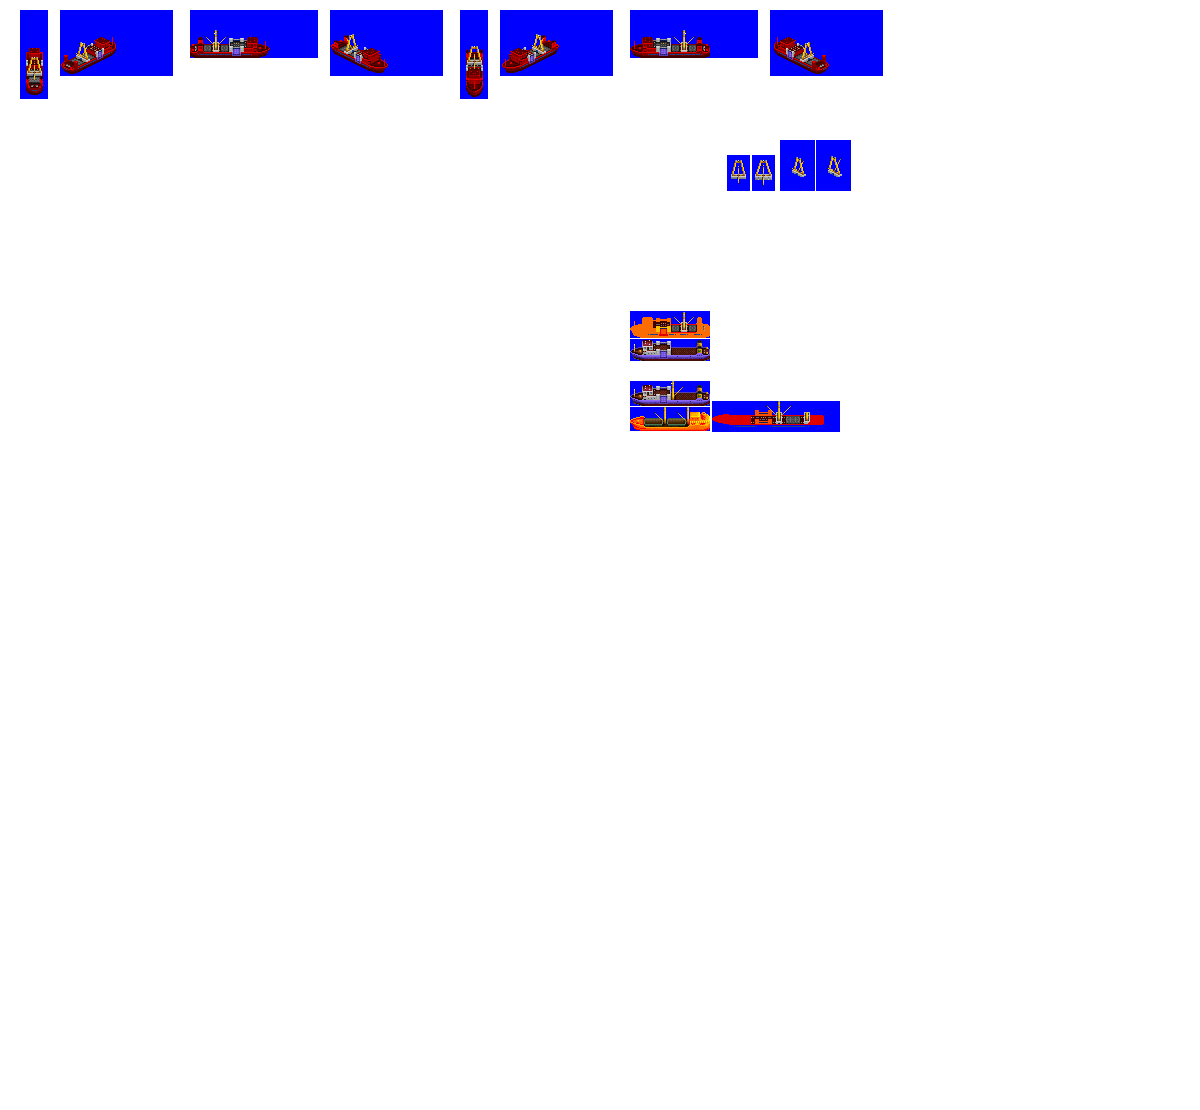
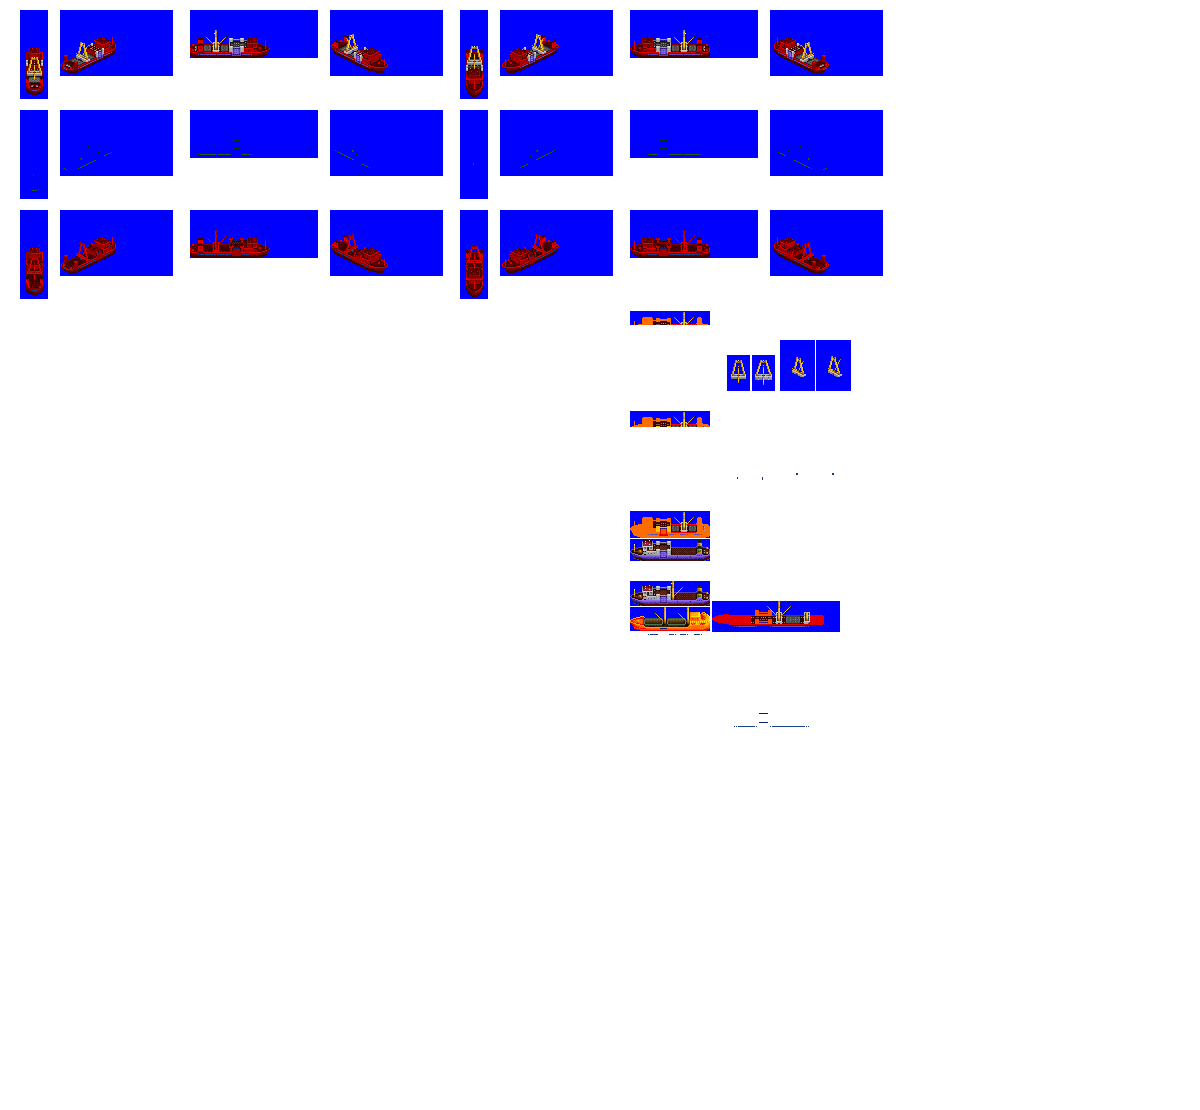
Change: experimental decor layer for stripes on reefers (also edibles tankers, maybe ferries), unfinished

Changed region(s): [[0.0, 0.0919, 0.74, 0.2757], [0.5242, 0.2757, 0.7092, 0.3982], [0.5242, 0.4595, 0.7092, 0.582]]

diff --git a/src/ship.py b/src/ship.py
@@ -79,7 +79,7 @@ class BuyableVariant(object):
             recolour_strategy_num_purchase = recolour_strategy_num
 
         cc_num_to_recolour = (
-            1  # fixed to 1CC as of August 2023 self.ship.cc_num_to_recolour
+            self.ship.cc_num_to_recolour
         )
         flag_use_weathering = self.livery.get("use_weathering", False)
         flag_context_is_purchase = True if context == "purchase" else False
@@ -162,6 +162,10 @@ class Ship(object):
         self.effect_type = kwargs.get("effect_type", None)
         # what length to use for cargo sprites in cargo compositing
         self.cargo_length = kwargs.get("cargo_length", None)
+        # set to 2 in subclass if recolour sprite remaps should be applied to 2cc not 1cc (can't do both)
+        self.cc_num_to_recolour = 1
+        # optional decor spriterow eh
+        self.decor_spriterow_num = None
         # aids 'project management'
         self.sprites_complete = kwargs.get("sprites_complete", False)
 
@@ -712,7 +716,6 @@ class EdiblesTanker(Ship):
         self.label_refits_disallowed = []
         self.default_cargos = global_constants.default_cargos["edibles_tank"]
         # Graphics configuration
-        hull_recolour_map = graphics_constants.hull_recolour_white
         deck_recolour_map = {
             70: 1,
             60: 2,
@@ -725,12 +728,22 @@ class EdiblesTanker(Ship):
             graphics_constants.house_recolour_roof_CC1_1.copy()
         )  # copy because update is used to extend the map
         house_recolour_map.update(graphics_constants.house_recolour_CC2_to_CC1)
+        # as of August 2023, to preserve the CC1 stripe, we use CC2 for the sprite recolour remap
+        self.cc_num_to_recolour = 2
         self.gestalt_graphics = GestaltGraphicsSimpleColourRemaps(
-            hull_recolour_map=hull_recolour_map,
+            hull_recolour_map=graphics_constants.hull_recolour_CC2,
             deck_recolour_map=deck_recolour_map,
             house_recolour_map=house_recolour_map,
             liveries=[
-                global_constants.ship_liveries["_DEFAULT"],
+                global_constants.ship_liveries["CC_WHITE"],
+                global_constants.ship_liveries["FREIGHT_SILVER"],
+                # can't use CC here as of August 2023 - no way to remap CC2 in the sprite to player CC1 choice, but we have to use CC2 in sprite to preserve CC1 stripe
+                # this could be addressed by using purple magic colour, but eh, we'd need to add support for that as cc -1 or something
+                # it was non-trivial to construct the recolour sprites for that
+                # alternatively we could have a 2CC-to-1CC recolour strategy, but not now eh
+                # !! these would benefit from variants-as-real-sprites instead of variants-as-recolour-sprites, this would allow more control over recolouring
+                # !! notably the CC stripe isn't desirable in all cases
+                # !! the stripe is a perfect case for decor?
             ],
         )
 
@@ -973,7 +986,7 @@ class Reefer(Ship):
         # improved decay rate
         self.cargo_age_period = 2 * global_constants.CARGO_AGE_PERIOD
         # Graphics configuration
-        hull_recolour_map = graphics_constants.hull_recolour_white
+        self.decor_spriterow_num = 1
         deck_recolour_map = {
             70: 1,
             60: 2,
@@ -990,11 +1003,23 @@ class Reefer(Ship):
         # extend to invert funnel CC
         house_recolour_map.update(graphics_constants.house_recolour_CC2_to_CC1)
         self.gestalt_graphics = GestaltGraphicsSimpleColourRemaps(
-            hull_recolour_map=hull_recolour_map,
+            hull_recolour_map=graphics_constants.hull_recolour_CC1,
             deck_recolour_map=deck_recolour_map,
             house_recolour_map=house_recolour_map,
             apply_hull_recolours_to_ship=True,
-            liveries=[global_constants.ship_liveries["_DEFAULT"]],
+            liveries=[
+                global_constants.ship_liveries["CC_WHITE"],
+                global_constants.ship_liveries["FREIGHT_SILVER"],
+                global_constants.ship_liveries["COMPANY_COLOUR_USE_WEATHERING"],
+                global_constants.ship_liveries["COMPLEMENT_COMPANY_COLOUR_USE_WEATHERING"],
+                # can't use CC here as of August 2023 - no way to remap CC2 in the sprite to player CC1 choice, but we have to use CC2 in sprite to preserve CC1 stripe
+                # this could be addressed by using purple magic colour, but eh, we'd need to add support for that as cc -1 or something
+                # it was non-trivial to construct the recolour sprites for that
+                # alternatively we could have a 2CC-to-1CC recolour strategy, but not now eh
+                # !! these would benefit from variants-as-real-sprites instead of variants-as-recolour-sprites, this would allow more control over recolouring
+                # !! notably the CC stripe isn't desirable in all cases
+                # !! the stripe is a perfect case for decor?
+            ],
         )
 
 

diff --git a/src/render_nml.py b/src/render_nml.py
@@ -77,6 +77,7 @@ def main():
         "recolour_sprites",
         "procedures_alternative_var_random_bits",
         "procedures_colour_randomisation_strategies",
+        "spriteset_empty_ss",
     ]
     for header_item in header_items:
         grf_nml.write(render_header_item_nml(header_item, consists))
